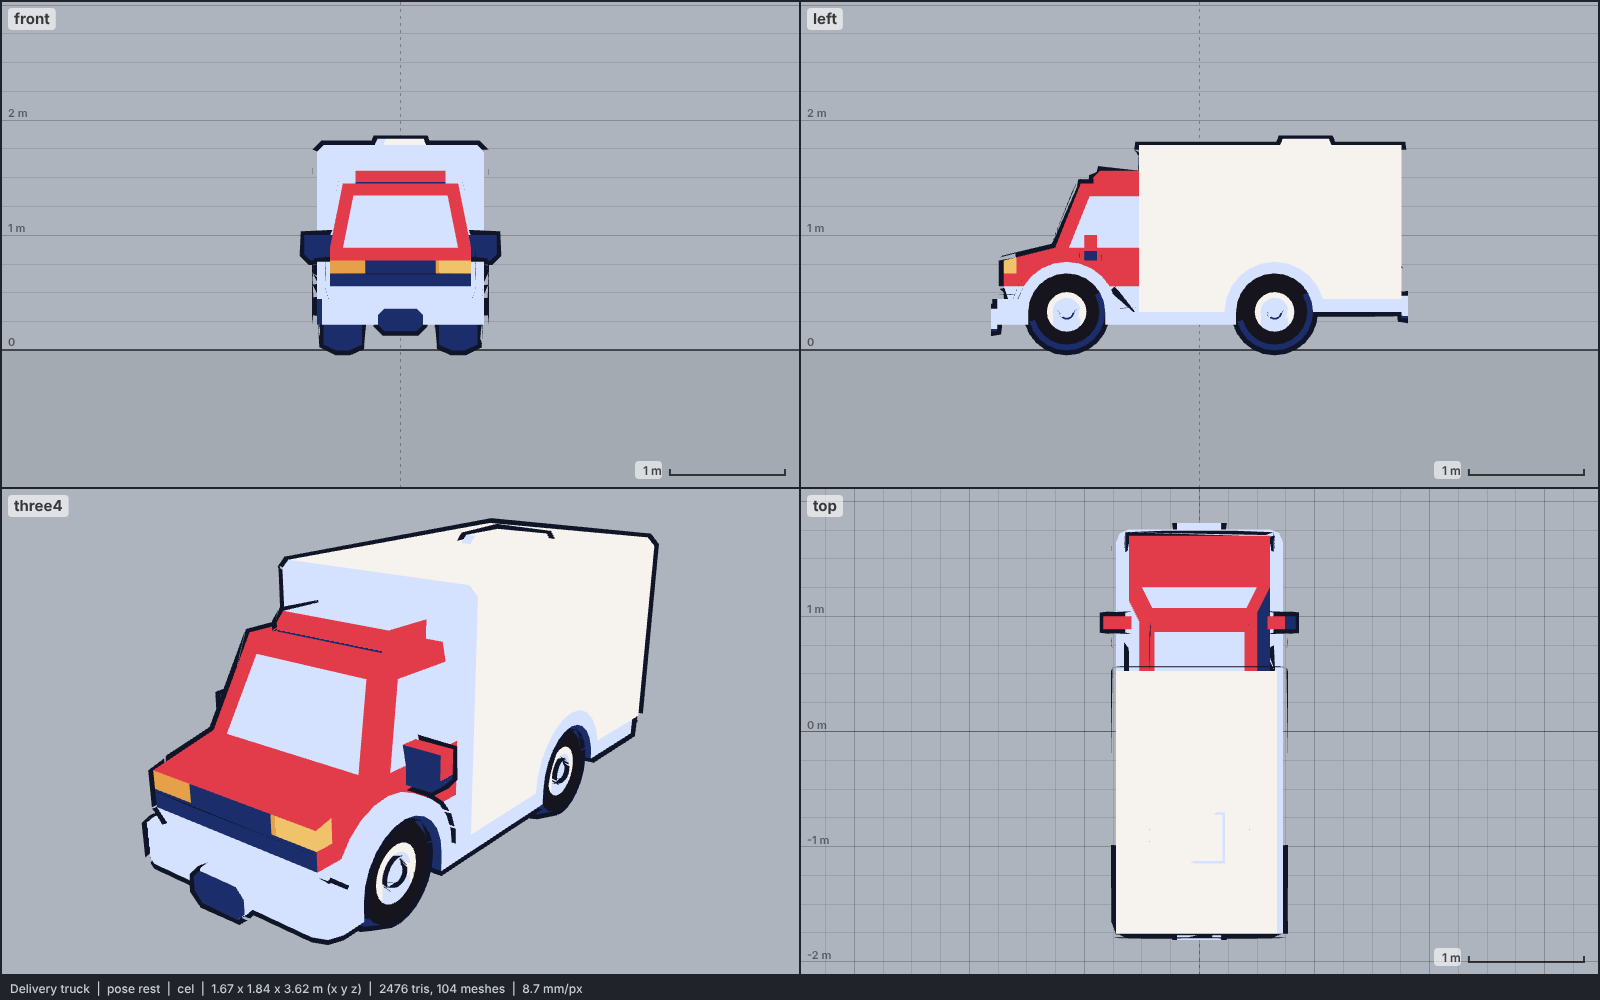
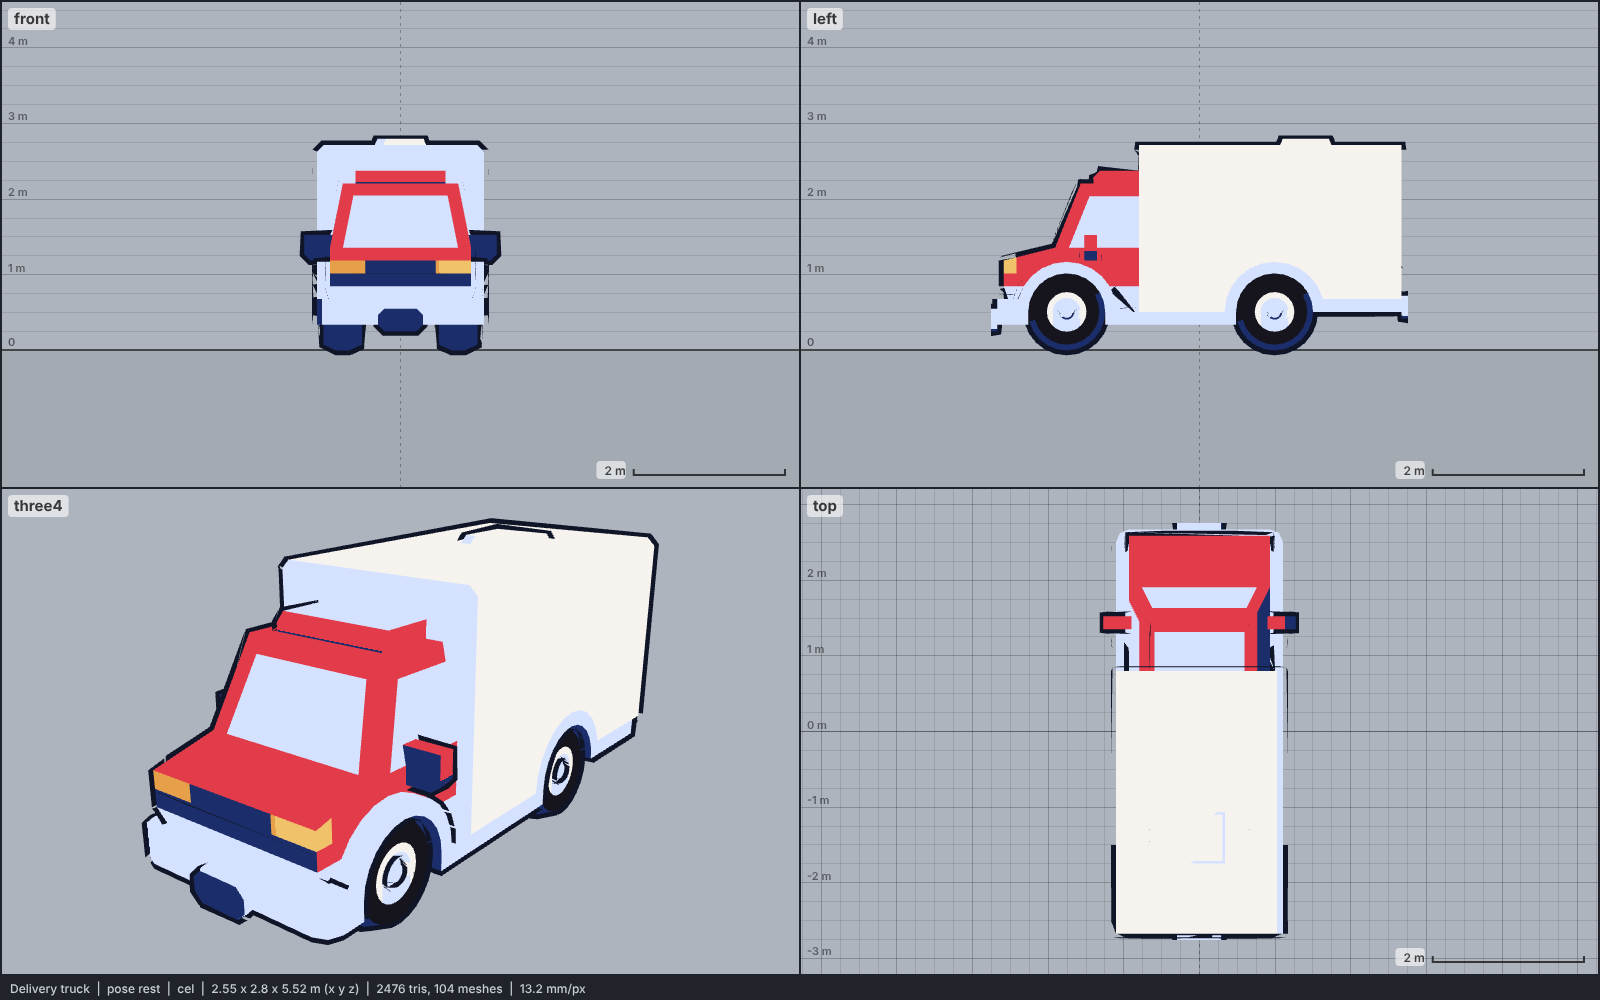
car-delivery: real size, 2.8 m tall small box truck (5.5 m long)
Claude-Session: https://claude.ai/code/session_01RarBCdt4E1fNHHaUKaW5GL

diff --git a/models/CATALOG.md b/models/CATALOG.md
@@ -9,4 +9,4 @@
 
 | preview | id | model | height | tris | clips | licence | source |
 | --- | --- | --- | --- | --- | --- | --- | --- |
-| <img src="library/car-delivery/preview.png" width="240"> | `car-delivery` | Delivery truck<br>*low-poly, flat colours (Kenney Car Kit)* | 1.84 m | 2476 | - | CC0 1.0 | [Kenney · Car Kit](https://kenney.nl/assets/car-kit) |
+| <img src="library/car-delivery/preview.png" width="240"> | `car-delivery` | Delivery truck<br>*low-poly, flat colours (Kenney Car Kit)* | 2.8 m | 2476 | - | CC0 1.0 | [Kenney · Car Kit](https://kenney.nl/assets/car-kit) |
